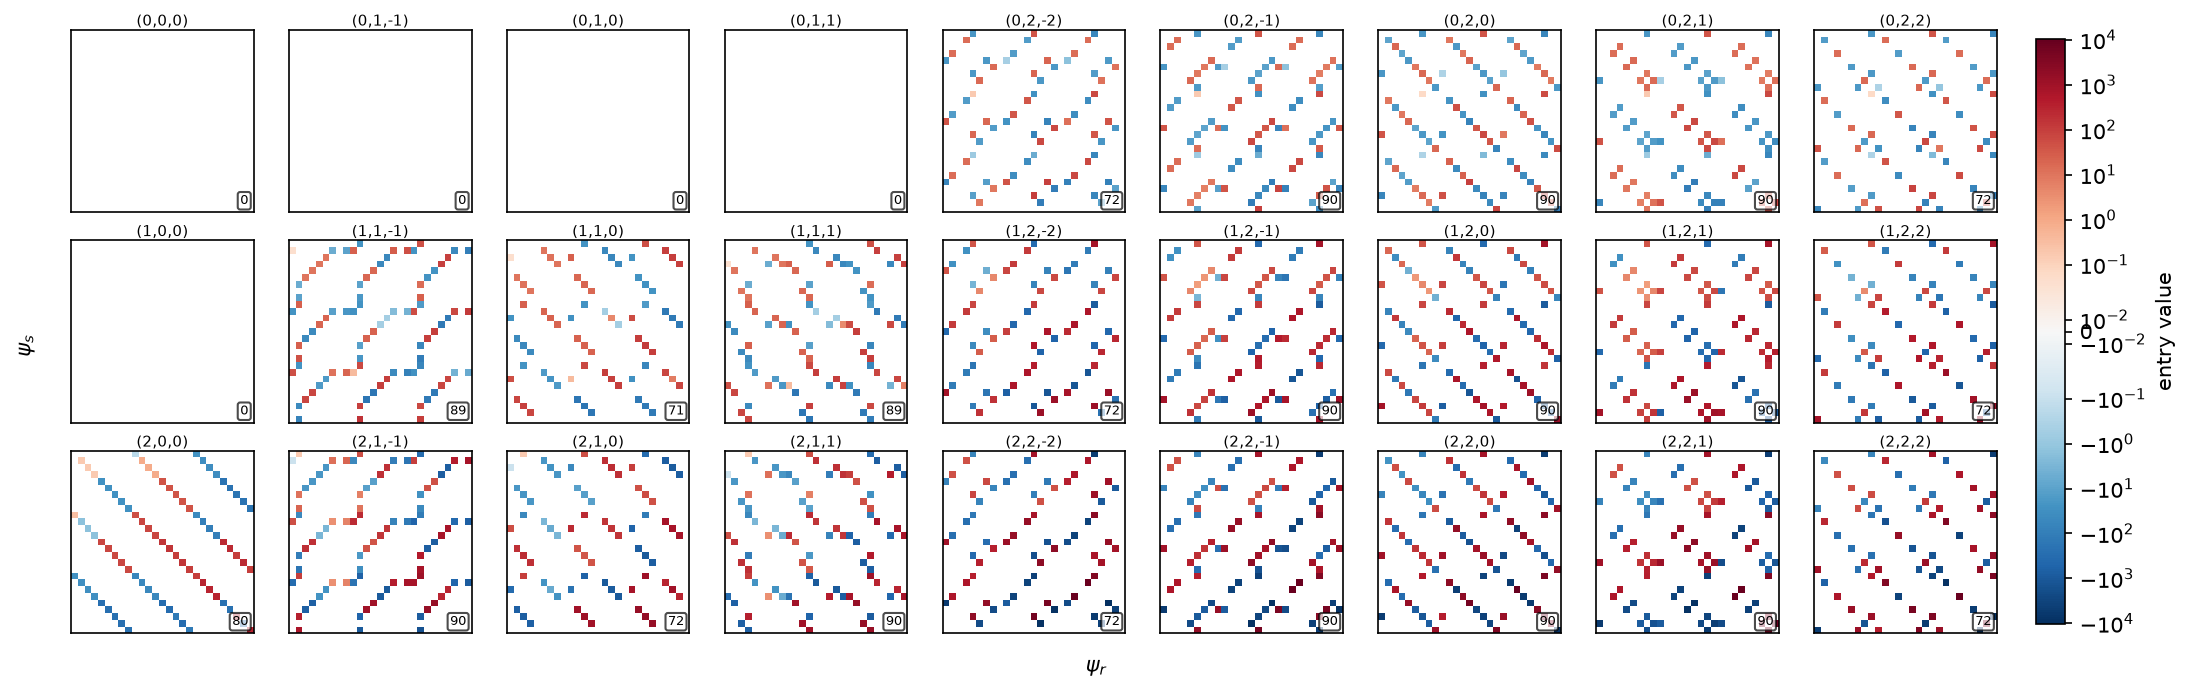
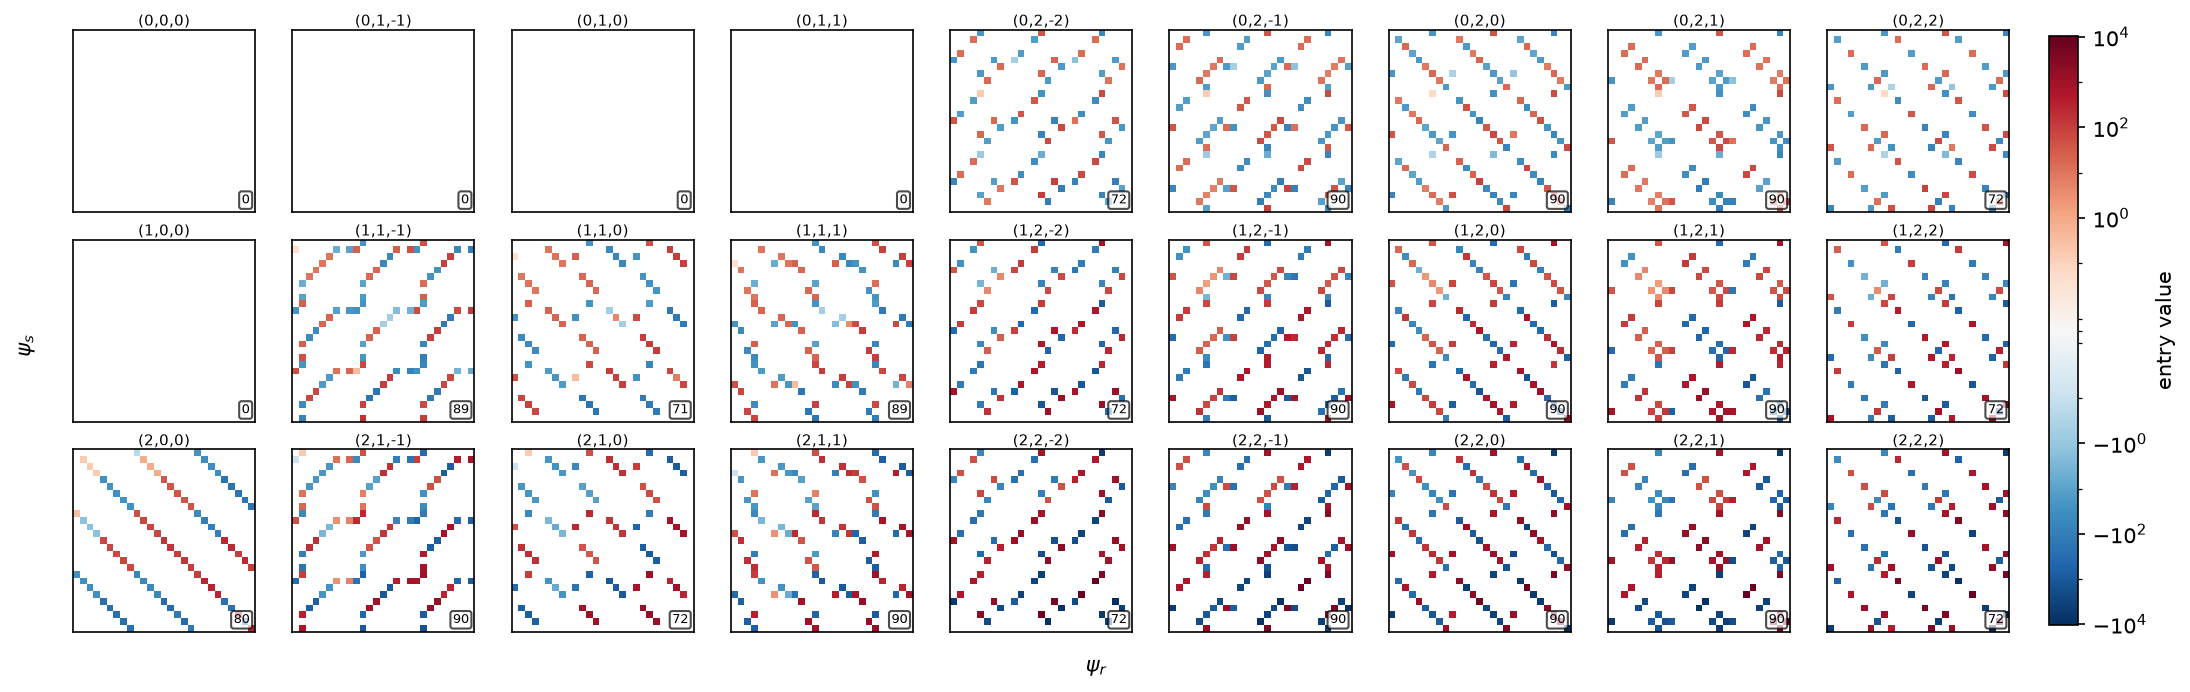
plot_sparsity: fix colorbar tick crowding near zero
Explicit ticks at ±10^0, ±10^2, ±10^4 replace auto-generated symlog ticks.

diff --git a/plot/plot_sparsity.py b/plot/plot_sparsity.py
@@ -70,7 +70,12 @@ fig.supylabel(r'$\psi_s$', fontsize=10)
 
 sm = mcm.ScalarMappable(cmap=cmap, norm=norm)
 sm.set_array([])
-fig.colorbar(sm, ax=axes, fraction=0.015, pad=0.02, label='entry value')
+cbar = fig.colorbar(sm, ax=axes, fraction=0.015, pad=0.02, label='entry value')
+# explicit ticks to avoid crowding near zero in the symlog scale
+ticks = [-1e4, -1e2, -1e0, 1e0, 1e2, 1e4]
+cbar.set_ticks(ticks)
+cbar.set_ticklabels([r'$-10^4$', r'$-10^2$', r'$-10^0$',
+                     r'$10^0$',  r'$10^2$',  r'$10^4$'])
 
 fig_path = './figures/sparsity_coulomb.png'
 plt.savefig(fig_path, dpi=150, bbox_inches='tight')
